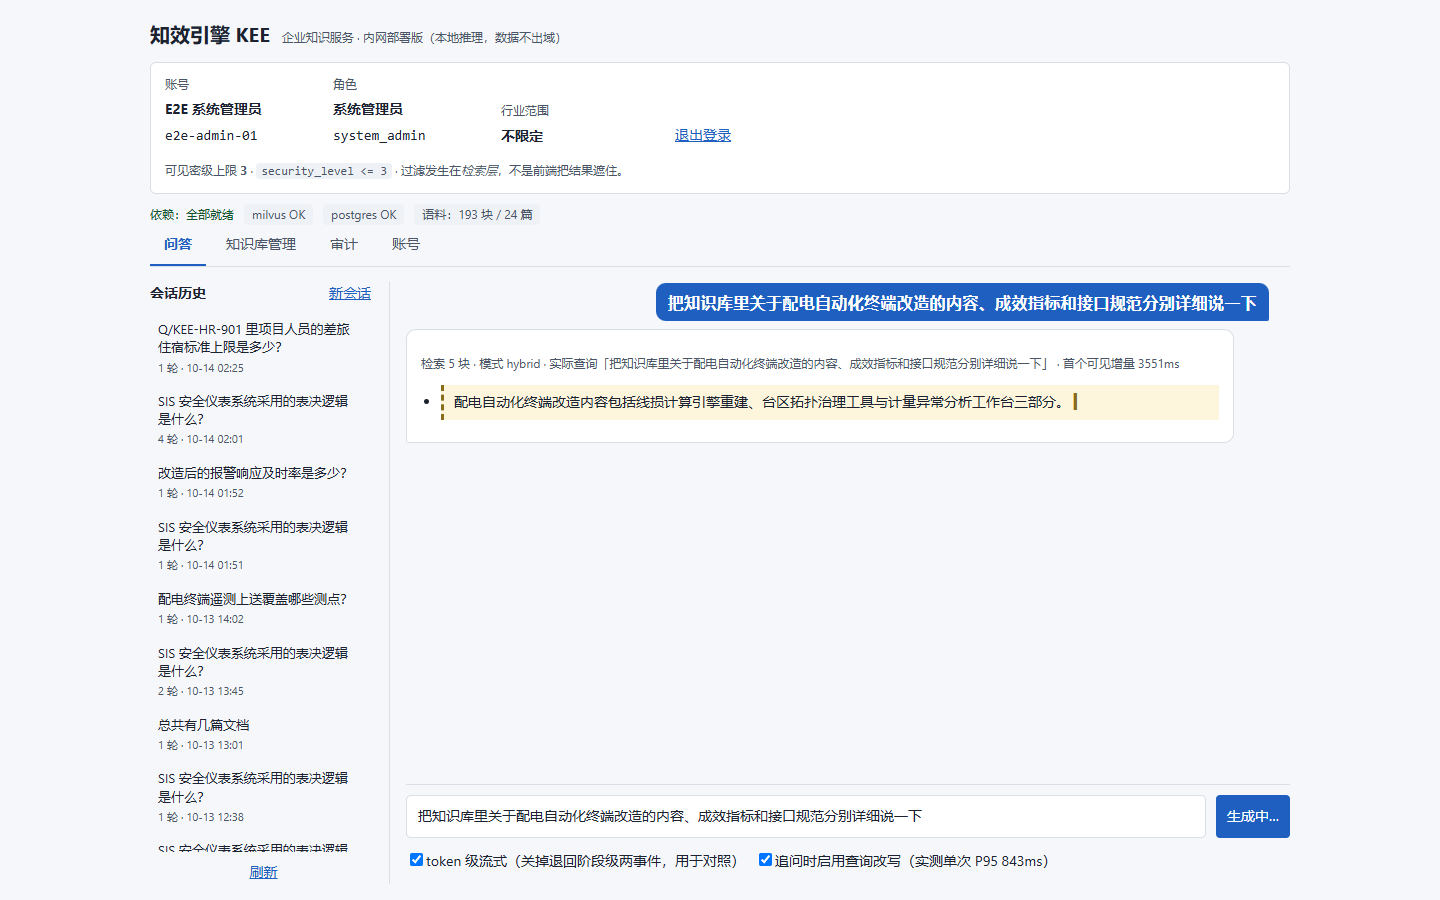
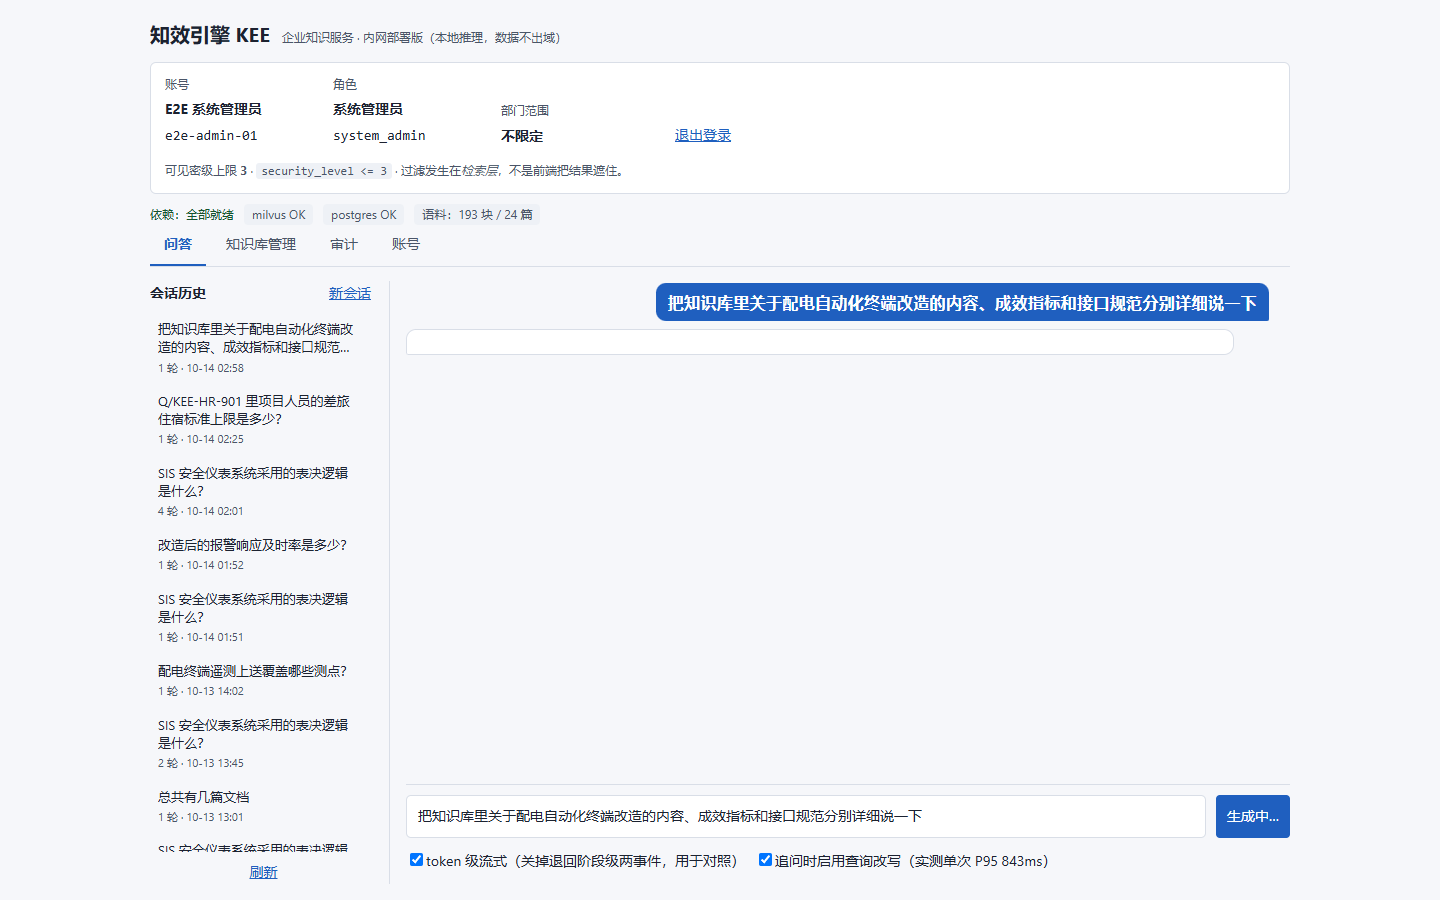
feat(rbac): 权限维度统一表述为「部门」+ 把 15 项未实现能力就地标注
用户裁决：过滤维度统一为「部门 / 项目 / 密级」（此前同一文档里三种写法并存，实现按
「行业/项目/密级」）。本项目「部门」取行业线口径——金融 / 能源 / 化工。

改到的（表述层）：需求与方案正文、7.2.1 的待裁决条目转为已裁决、界面标签
（账号条「部门范围」、注册页「部门范围」、知识库「部门」列与筛选、账号页「部门」列）、
用户手册（含术语表新增「部门」条）。

**刻意没改的**：代码与存储字段名保留 `industry`（`document.industry` 列、Milvus 字段、
请求头 `X-Kee-Industries`）。改这些要重建向量集合 schema + 全库重索引 + 重跑 m2_eval 基线，
并让 var/gate0/ 里所有含 industry 的既有读数变成历史版本——那是作废证据换一次命名，
属独立改动，不夹在措辞裁决里做。理由与代价写在 7.2.1 原文。

第二件事：把「概览里写过、代码里没有」的能力全部就地标注（此前只有 §六 指标表标了 ⚠，
十/十一节没标，读起来像已交付）。Should 未做 4 项（图谱 / IM 门户 / 云端兜底与预算熔断 /
答案反馈闭环）、概览列了但未实现 6 项（LiteLLM、Socket.IO〔实为 SSE〕、RAGAS、LLM-as-Judge、
Langfuse+Prometheus+结构化日志、prompt 压缩）、不需要 1 项（Agent 工具白名单——无工具调用）、
裁决不做 4 项（Checkpointer、温度缩放、API 容器化、公式解析）。§8.1 的 Should 行同步标注，
并在《项目定义》§十一 末尾给一张实现状态总表。

最该被看见的一条：可观测三项全无，现状只有 /healthz + trace_id 贯穿 + 审计表。

阈值、门禁、DoD 汇总、全部读数：一字未动。docs 升版 V1.34 / V1.0.36；
前端 35 passed、构建干净；后端 232 passed（期间 kee-* 容器被停过，compose 起回后
语料 193/24 完好，未动同机上另一套 auscult-* 栈——端口不冲突）；手册 11 张截图重采。

diff --git a/frontend/src/api/sse.test.ts b/frontend/src/api/sse.test.ts
@@ -84,9 +84,9 @@ describe("postSse 分帧", () => {
     globalThis.fetch = originalFetch;
     expect(capture.headers).toMatchObject({
       "X-Kee-Role": "system_admin",
-      // actor 同样要编码：中文姓名（张三）在这里和中文行业名是同一个问题
+      // actor 同样要编码：中文姓名（张三）在这里和中文部门名（金融）是同一个问题
       "X-Kee-Actor": encodeURIComponent("a@b"),
-      // 中文行业名**必须以百分号编码发出**：直接发中文，浏览器会拒发整个请求。
+      // 中文部门名**必须以百分号编码发出**：直接发中文，浏览器会拒发整个请求。
       // 这条断言就是那条契约的护栏。
       "X-Kee-Industries": encodeURIComponent("金融"),
       "X-Kee-Projects": "PRJ-X",

diff --git a/frontend/src/pages/KbPage.tsx b/frontend/src/pages/KbPage.tsx
@@ -63,7 +63,7 @@ export function KbPage() {
     <div>
       <div className={s.toolbar}>
         <label>
-          行业
+          部门
           <select value={industry} onChange={(e) => { setIndustry(e.target.value); setOffset(0); }}>
             <option value="">（全部可见）</option>
             {INDUSTRIES.map((i) => (
@@ -113,7 +113,7 @@ export function KbPage() {
         <table className={s.table}>
           <thead>
             <tr>
-              {["文档", "行业/项目", "类型", "密级", "状态", "生效版本", "子块", "操作"].map((h) => (
+              {["文档", "部门/项目", "类型", "密级", "状态", "生效版本", "子块", "操作"].map((h) => (
                 <th key={h}>{h}</th>
               ))}
             </tr>

diff --git a/frontend/src/api/client.ts b/frontend/src/api/client.ts
@@ -46,7 +46,7 @@ export class ApiError extends Error {
  * 分两处加令牌迟早出现「普通接口认登录、流式接口不认」这种半吊子状态。
  */
 export function identityHeaders(id: Identity): Record<string, string> {
-  // HTTP 头只允许 latin-1 字节，而行业/项目/actor 会是中文（金融、张三）。
+  // HTTP 头只允许 latin-1 字节，而部门/项目/actor 会是中文（金融、张三）。
   // 直接塞中文浏览器当场拒发，所以这里按契约做百分号编码，后端 `context_of` 对应 unquote。
   const enc = (v: string) => encodeURIComponent(v);
   const h: Record<string, string> = { ...authHeaders() };

diff --git a/frontend/src/pages/AccountsPage.tsx b/frontend/src/pages/AccountsPage.tsx
@@ -57,7 +57,7 @@ export function AccountsPage() {
       {(msg || error) && <p className={s.formMsg} data-testid="accounts-msg">{msg || error}</p>}
       <table className={s.table}>
         <thead>
-          <tr><th>账号</th><th>显示名</th><th>角色</th><th>行业</th><th>最近登录</th><th>失败次数</th><th>授予角色</th></tr>
+          <tr><th>账号</th><th>显示名</th><th>角色</th><th>部门</th><th>最近登录</th><th>失败次数</th><th>授予角色</th></tr>
         </thead>
         <tbody>
           {rows.map((r) => (

diff --git a/frontend/src/pages/LoginPage.tsx b/frontend/src/pages/LoginPage.tsx
@@ -94,7 +94,7 @@ export function LoginPage() {
               </label>
 
               <div className={s.field}>
-                <span>行业范围（不选＝不限定，由服务端按角色处理）</span>
+                <span>部门范围（不选＝不限定，由服务端按角色处理）</span>
                 <div className={s.chips}>
                   {INDUSTRIES.map((name) => {
                     const on = industries.includes(name);

diff --git a/frontend/src/components/AccountBar.tsx b/frontend/src/components/AccountBar.tsx
@@ -26,7 +26,7 @@ export function AccountBar() {
         <code>{user.role}</code>
       </div>
       <div className={s.field}>
-        <span>行业范围</span>
+        <span>部门范围</span>
         <strong>{identity.industries.length ? identity.industries.join("、") : "不限定"}</strong>
       </div>
       <button type="button" className={s.link} onClick={() => void logout()}>退出登录</button>

diff --git a/docs/项目定义（数字技术服务企业版 V1.1）.md b/docs/项目定义（数字技术服务企业版 V1.1）.md
@@ -8,7 +8,8 @@
 > **不等于线上数据、不等于真实用户行为**（第六节业务三条里仍有两条按构造不可测）。
 > 任何指标一律不得解读为「已上线 / 真实环境达成」。
 > **执行主体**：个人独立设计与开发。
-> **版本**：V1.33（**措辞改判（第三次）**：语料来源不再以「模拟 / 未接入生产文档 / 不构成承诺」呈现，改为中性来源说明 + 上线前重跑要求；界面状态条只报规模与空索引。与《技术方案》V1.0.35 同批）。
+> **版本**：V1.34（**权限维度统一表述为「部门」+ 把「概览里写过但没实现」的 15 项就地标注状态**，与《技术方案》V1.0.36 同批；**阈值与读数一字未动**）。
+> **上一版**：V1.33（**措辞改判（第三次）**：语料来源不再以「模拟 / 未接入生产文档 / 不构成承诺」呈现，改为中性来源说明 + 上线前重跑要求；界面状态条只报规模与空索引。与《技术方案》V1.0.35 同批）。
 > **上一版**：V1.32（**问答记录不再随模块切换丢失 + 左侧会话历史栏**：Must#7「会话式多轮追问」在界面层补齐，与《技术方案》V1.0.34 同批）。
 > **上一版**：V1.31（**RBAC 入口换成真登录：界面上的角色下拉框撤了，未登录只有登录/注册页；问答页改成一问一答、提问栏置底**）。
 > **上一版**：V1.30（**交付前清场：代码里 demo 已 0 命中，审计页残留的 26 行是数据不是代码；顺手量出 TRUNCATE 能绕过审计防篡改**）。
@@ -345,9 +346,9 @@ M5 遗留的人工项不变：拆题（草案在 `docs/评测集拆题草案.md`
 
 | 维度 | 约束 |
 |---|---|
-| **数据** | 企业内部项目 / 行业文档，**含客户敏感信息、不出域**；按**行业 / 项目 / 密级**隔离；无公开评测集 → **自建评测集**（双人标注 + Cohen's Kappa）。**逐块相关性判据已由 V1.8 裁决定下**（一块须能独立答全该题全部内容），此前文档只写了「要双标 + 算 Kappa」而**没定义在判什么** |
+| **数据** | 企业内部项目 / 行业文档，**含客户敏感信息、不出域**；按**部门 / 项目 / 密级**隔离（**V1.34 裁决**：权限维度统一称「**部门**」，本项目取行业线口径——金融 / 能源 / 化工；代码与存储字段名沿用 `industry`，改字段名要重建 Milvus schema 与全库索引、并作废既有读数留档，属另一次改动）；无公开评测集 → **自建评测集**（双人标注 + Cohen's Kappa）。**逐块相关性判据已由 V1.8 裁决定下**（一块须能独立答全该题全部内容），此前文档只写了「要双标 + 算 Kappa」而**没定义在判什么** |
 | **算力** | 单机部署，**GPU 显存 8GB 为硬瓶颈**：7B 模型常驻，嵌入 / 重排需分时调度或降级 CPU，**双 7B 不可常驻共存**（Gate 0 ① 实测修正：**7B + 嵌入 + 重排三者可共存但零余量**——峰值 8098/8188 MiB、零 OOM，因此必须锁死嵌入批大小与生成上下文长度；原表述「嵌入/重排需分时调度」在交互链路不可行，冷启 4.6–9.0s/次） |
-| **预算** | 本地优先、云端仅兜底；设 token 预算熔断，**无持续云开销** |
+| **预算** | 本地优先、云端仅兜底；设 token 预算熔断，**无持续云开销**（**V1.34 标注**：兜底开关为 `false` 且被 ⑥ 验证为关，故「无持续云开销」成立；**熔断器本身未实现**，启用兜底前必须先补） |
 | **时间** | 个人独立开发；分阶段推进，每阶段设可判定出口，**不设无限期** |
 | **部署环境** | Windows 11 + WSL2 + Docker Desktop。**容器化范围（V1.14 定案）**：存储与中间件进容器（Milvus / PostgreSQL / Redis / etcd / MinIO）+ 前端静态托管与 Nginx 反代进容器；**推理与 API 按设计跑在宿主进程**——嵌入/重排要用本机 8GB 显存与既有 CUDA 环境，容器化只能带 CPU torch（实测：合成一次检索 CPU+float32 5167ms，而门禁 P95 检索 < 800ms → 门禁不可达）。因此**「整机断网下端到端跑通问答」不在本项目承诺的验证清单内**，理由与代价见《技术方案》ADR-12 与 `docs/ADR-12_容器化代价实测.md` |
 | **合规** | 对标 **CMMI / ISO / CCRC / ITSS** 等资质要求；知识不出域；审计**追加表 + 禁改触发器**；RBAC + 职责分离；知识库投毒防护；Prompt 注入防护 |
@@ -384,9 +385,11 @@ M5 遗留的人工项不变：拆题（草案在 `docs/评测集拆题草案.md`
     **代价：链路中途失败只能整条重来，无断点续跑。**
 - **大模型工程**：Ollama（**本地单模型 `qwen2.5:7b`** 承担查询改写、工具调用与答案生成；V1.2 起移除 `deepseek-r1:7b` 双模型分工——8GB 单卡不可共存，实测切换冷启 4.6–9.0s/次）/ LiteLLM 网关 / 云端兜底路由 / 复合分数校准（**V1.6 裁决：本轮不启用温度缩放，T=1.0**——Gate 0 那次拟合的标签 在可判集上恒为 1，零方差上拟合只会把分数压向基率；出现有方差的 `answer_correct` 标签后再谈） / Prompt 与 JSON Schema 约束
 - **服务与存储**：FastAPI / PostgreSQL 18 / Redis 8 / MinerU / Socket.IO / Docker Compose / Nginx
+  ⚠ **Socket.IO 未实现**：流式实际走 **SSE**（`POST /api/v1/answers/stream`），事件序与契约一致——这是**选型更正**不是缺功能，但概览这行原文未改，故在此标注】
 - **评估与可观测**：RAGAS / 自建评测集 / Langfuse / Prometheus + Grafana
+  ⚠ **RAGAS、Langfuse、Prometheus + Grafana 均未实现，属后续**；已实现的是自建评测集 + 双人标注 Kappa + 规则评分 + `m2_eval` 版本回归；可观测目前为 `/healthz` + `trace_id` 贯穿请求/审计/响应】
 
-**数据存储归属原则**：向量索引（Milvus）、元数据与版本（PostgreSQL，唯一权威源）、关系图谱（可选，用于实体 / 流程 / 方案关联增强）、运行态缓存与会话（Redis，非权威、可重建）。
+**数据存储归属原则**：向量索引（Milvus）、元数据与版本（PostgreSQL，唯一权威源）、关系图谱（可选，用于实体 / 流程 / 方案关联增强）**【V1.34 标注：未起，属 Should】**、运行态缓存与会话（Redis，非权威、可重建）。
 
 ---
 
@@ -409,9 +412,9 @@ M5 遗留的人工项不变：拆题（草案在 `docs/评测集拆题草案.md`
 ### C. Agent 编排与问答体验
 - 基于 **LangGraph StateGraph** 构建**类型化（Pydantic）问答工作流**（查询改写 → 混合检索 → 重排 → 生成 → 引用校验），以 **Checkpointer** 支撑多轮状态持久化与中断-恢复。
 - **证据引用强制**：每条结论必须携带来源，**无来源不出结论**；检索失败走 fallback（澄清追问或明确"未找到依据"）。
-- **多轮追问与上下文管理**（指代消解、历史摘要压缩）。
-- **本地单模型 + LiteLLM 网关**：`qwen2.5:7b` 单模型承担结构化任务与答案生成（**V1.2 修订**：原「双模型分工」在 8GB 单卡不可行——两 7B 无法共存、切换冷启 4.6–9.0s/次，且同底座能力重叠）；低置信度升级云端兜底。
-- **流式对话交互**（Socket.IO 实时流式输出、引用高亮、追问建议）。
+- **多轮追问与上下文管理**（指代消解、历史摘要压缩）。**【V1.34 标注：指代消解已实现（上文取最近 3 轮原文）；历史摘要压缩未实现，属后续】**
+- **本地单模型 + ~~LiteLLM 网关~~**（**V1.34 标注：LiteLLM 未引入**，直连 Ollama，见 `src/kee/llm/ollama.py`）：`qwen2.5:7b` 单模型承担结构化任务与答案生成（**V1.2 修订**：原「双模型分工」在 8GB 单卡不可行——两 7B 无法共存、切换冷启 4.6–9.0s/次，且同底座能力重叠）；低置信度升级云端兜底。
+- **流式对话交互**（~~Socket.IO~~ 实时流式输出、引用高亮、追问建议）。**【V1.34 标注：三项能力均已交付，载体是 SSE 而非 Socket.IO】**
 
 ### D. 可靠性与一致性
 - **Outbox + 每日对账**：写入元数据库后异步写向量库，失败入补偿队列，每日比对差异，解决多存储"静默缺数据"。
@@ -421,8 +424,9 @@ M5 遗留的人工项不变：拆题（草案在 `docs/评测集拆题草案.md`
 
 ### E. 安全与合规
 - **四道防线**：数据接入层本地闭环、Agent 层工具白名单 + 输入净化、答案层引用强制 + 降级显式化、知识层准入审核 + 来源分级。
+  ⚠ **工具白名单这一层尚不需要**：系统是确定性工作流、无工具调用；实际实现的同类防线是**Milvus 过滤表达式的字符白名单 + 输入净化**（`retrieval/rbac.py` 与 `api/app.py` 的解码后校验）。若后续引入 Agent 工具，这一条才成为必做项】
 - **RBAC 权限体系**：身份来自**账号与登录令牌**（注册 / 登录 / 服务端可撤销会话；治理角色不得自助获取），
-  按**行业 / 项目 / 密级**过滤可见知识，在**检索层做权限过滤**，确保"搜得到"的前提是"有权限看"。
+  按**部门 / 项目 / 密级**过滤可见知识，在**检索层做权限过滤**，确保"搜得到"的前提是"有权限看"。
   **V1.31 裁决**：界面上不再提供角色选择入口——此前任何人都能把自己从「新人」切成「系统管理员」，
   使"RBAC 已实现"只在服务端成立；范围改由登录账号推导并只读显示。请求头身份降为内网脚本兜底通道，
   可经 `KEE_ALLOW_HEADER_IDENTITY=false` 整体关闭。
@@ -431,10 +435,37 @@ M5 遗留的人工项不变：拆题（草案在 `docs/评测集拆题草案.md`
 
 ### F. 评测、可观测与交付
 - **自建评测集与量化门禁**（Recall@5、MRR、Faithfulness、Answer Relevance、引用落 gold 率、答案正确率（人判）、P95 延迟）。
-- **离线评估流水线**（RAGAS + LLM-as-Judge + 规则评分 + 版本回归）。
-- **可观测体系**（Langfuse 链路 + Prometheus / Grafana + 结构化日志）。
+- **离线评估流水线**（RAGAS + LLM-as-Judge + 规则评分 + 版本回归）。**【V1.34 标注：规则评分与版本回归已实现（`m2_eval` 同尺复跑 + `ruler` 指纹）；RAGAS 与 LLM-as-Judge 未引入，属后续】**
+- **可观测体系**（Langfuse 链路 + Prometheus / Grafana + 结构化日志）。**【V1.34 标注：三项均未实现。现状 = `/healthz` 依赖自检 + `trace_id` 贯穿（响应体 / 审计 / `session_turn` 同一 id 可串）+ 审计表；无指标暴露、无链路追踪、无集中日志——这是 MVP 里最薄的一块】**
 - **一键启动部署包**（Docker Compose + 架构图 + 使用说明）。（V1.27 措辞改判：本交付物不再自称「Demo」——M0–M5 已完成且真机验收过；**但这只是名称与呈现的更正，不改变任何验收状态**：可伪造身份仍限内网部署、语料为自建行业文档集、业务指标仍有两条按构造不可测。）
-- **成本治理**（云端预算熔断、缓存与 prompt 压缩、本地优先路由）。
+- **成本治理**（云端预算熔断、缓存与 prompt 压缩、本地优先路由）。**【V1.34 标注：本地优先路由与缓存（Redis 检索缓存，TTL 300s）已实现；token 预算熔断与 prompt 压缩未实现——云端兜底整体关闭（`cloud_fallback_enabled=false`），目前没有可熔断的云开销，这两项属「接兜底之后」的工作】**
+
+---
+
+### §十一 实现状态对照（V1.34 一次性摊开，避免逐条找不到）
+
+> 「概览/能力设计」里写过的东西，**做没做、没做算哪一类**，只在这一张表里说一次；
+> 上面各小节的 ⚠ 标注与本表同义，冲突时以本表与代码为准。
+
+| 能力 | 状态 | 说明 / 落点 |
+|---|---|---|
+| 混合检索、引用强制、拒答与转人工、多轮流式、RBAC、审计、前端、一键部署 | **已实现并验收** | DoD#1–#8，`reports/m5/M5_DoD核对表.md` |
+| 查询改写（指代消解） | **已实现，默认仅在追问启用** | 单次 P95 843ms；`retrieval/rewrite.py` |
+| 关系图谱（Neo4j） | **未实现，Should** | 方案 §8.1 明列"增强非阻塞" |
+| IM / 门户插件 | **未实现，Should** | 同上 |
+| 云端兜底精细化路由 + token 预算熔断 | **未实现，Should** | 只有 `cloud_fallback_enabled=false` 这个开关，**无路由与熔断代码**；启用兜底前必须先补熔断 |
+| 答案反馈闭环（用户点赞/纠错回流） | **未实现，Should** | 端点表里没有 feedback 路由 |
+| LiteLLM 网关 | **未实现** | 直连 Ollama（`llm/ollama.py`） |
+| Socket.IO | **未实现（被 SSE 取代）** | 能力等价：`/api/v1/answers/stream` 事件序 `retrieval → delta* → answer` |
+| RAGAS（Faithfulness / Answer Relevance） | **未引入** | §六 指标表已就地标 ⚠；替代装置是自建评测集 + 人判 `answer_correct` + 规则分 |
+| LLM-as-Judge | **未引入** | 同上 |
+| Langfuse / Prometheus + Grafana / 结构化日志 | **未实现** | 现状只有 `/healthz` + `trace_id` 贯穿 + 审计表；**MVP 里最薄的一块** |
+| prompt 压缩 | **未实现** | 上下文取最近 3 轮原文，未做摘要压缩 |
+| Agent 工具白名单 | **不需要（无工具调用）** | 实际实现的是检索表达式字符白名单 + 输入净化 |
+| LangGraph Checkpointer | **裁决不做**（V1.5） | 代价：链路失败只能整条重来，无断点续跑 |
+| 温度缩放校准 | **裁决不启用**（V1.6，T=1.0） | 标签方差不足；ECE 0.2006 作为报告值挂着 |
+| API 容器化 | **裁决不做**（ADR-12） | 代价：「整机断网下端到端问答」划出承诺范围 |
+| 公式解析（PP-FormulaNet） | **未接** | 权重本地已有；交付文档公式罕见 |
 
 ---
 
@@ -465,6 +496,35 @@ M5 遗留的人工项不变：拆题（草案在 `docs/评测集拆题草案.md`
 ---
 
 ## 十四、修订记录
+
+### V1.34（2026-10-14，权限维度统一为「部门」；未实现项就地标注）
+
+**两件事，都是名实对齐，不动任何阈值与读数。**
+
+**① 过滤维度统一表述为「部门 / 项目 / 密级」**（用户裁决）。此前同一份文档里三种写法并存
+（部门/项目/客户/密级 ↔ 部门/项目/密级 ↔ 行业/项目/密级），实现按第三种。现在：
+- 需求与方案的正文、界面标签（账号条「部门范围」、知识库「部门」列与筛选、注册页「部门范围」）、
+  用户手册全部统一为「部门」；本项目「部门」取**行业线口径**（金融 / 能源 / 化工）。
+- **代码与存储字段名保留 `industry`**（`document.industry` 列、Milvus 字段、请求头 `X-Kee-Industries`）。
+  理由不是省事：改这些要**重建向量集合 schema + 全库重索引 + 重跑 `m2_eval` 基线**，
+  并让 `var/gate0/` 里所有含 `industry` 的既有读数变成历史版本——那是作废证据换一次命名，
+  属独立改动，等用户单独点头，**没有夹在这次措辞里一起做**。
+
+**② 把「概览里写过、代码里没有」的项就地标注**（此前只有 §六 指标表标了 ⚠，十/十一节没标，
+读起来像已交付）。逐条落到原文位置 + 一张总表（§十一 末尾「实现状态对照」）：
+
+| 类别 | 项 |
+|---|---|
+| Should 未做（4） | Neo4j 图谱、IM/门户插件、云端兜底精细化路由 + token 预算熔断、答案反馈闭环 |
+| 概览列了但未实现（6） | LiteLLM 网关、Socket.IO（实为 SSE）、RAGAS、LLM-as-Judge、Langfuse / Prometheus + Grafana / 结构化日志、prompt 压缩 |
+| 不需要（1） | Agent 工具白名单——系统是确定性工作流、无工具调用；实际同类防线是检索表达式字符白名单 + 输入净化 |
+| 裁决不做（4） | LangGraph Checkpointer（无断点续跑）、温度缩放（T=1.0）、API 容器化（ADR-12）、公式解析 PP-FormulaNet |
+
+**最该被看见的一条**：可观测体系（Langfuse / Prometheus / 结构化日志）**三项全无**，
+现状只有 `/healthz` + `trace_id` 贯穿响应/审计/`session_turn` + 审计表——这是 MVP 里最薄的一块，
+以前藏在概览的一行斜杠列表里，现在写在原地。
+
+验证：前端 35 passed、构建干净；界面标签变更后手册截图重采。
 
 ### V1.33（2026-10-14，措辞改判：语料来源从中性事实呈现，不再自贬）
 
